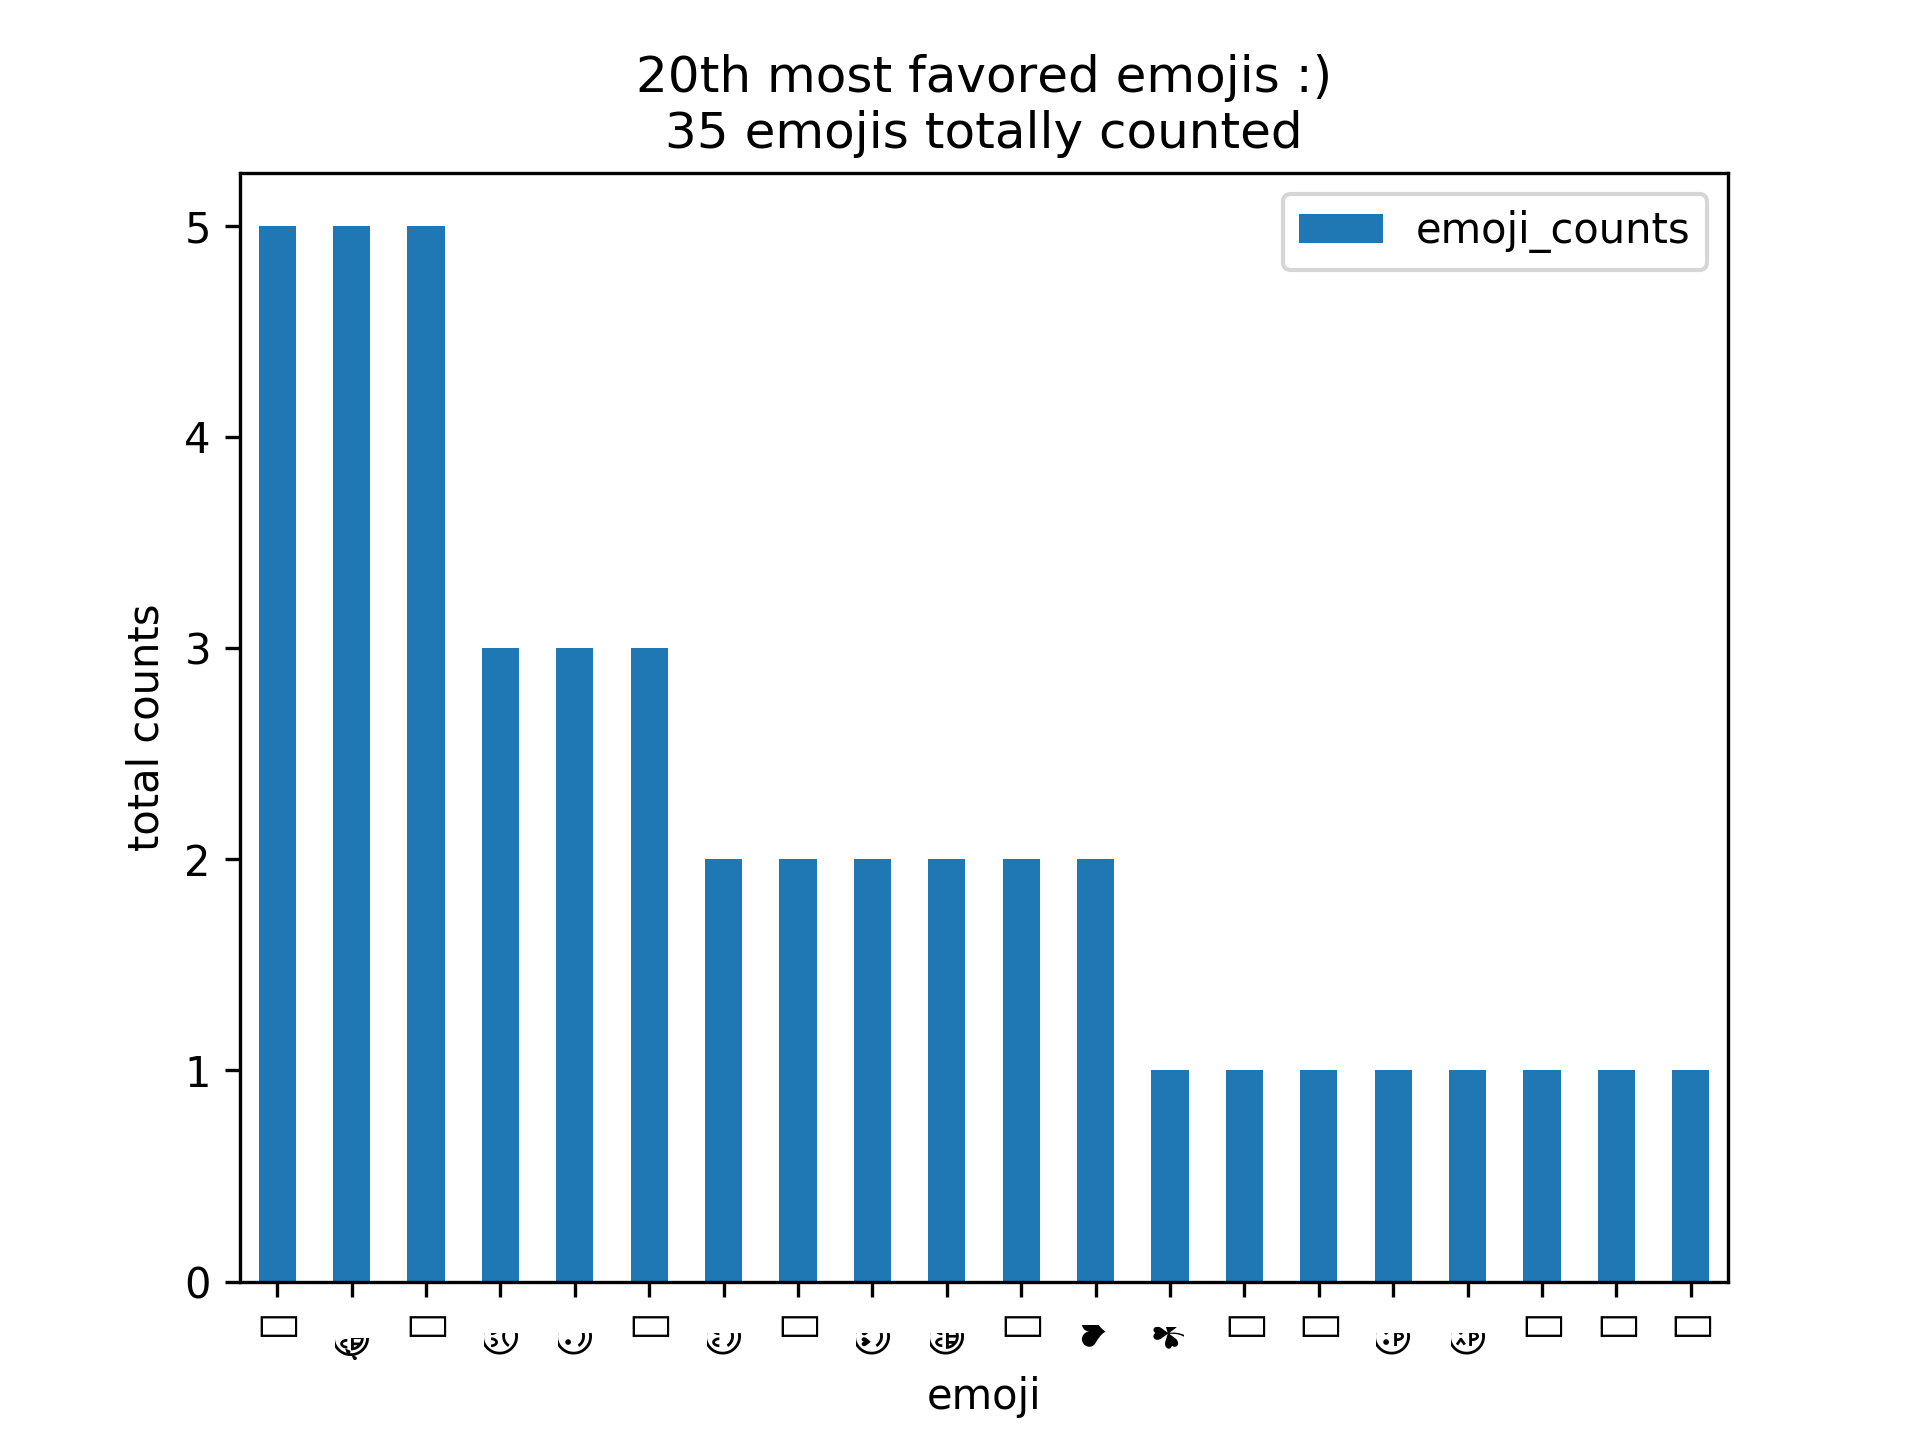
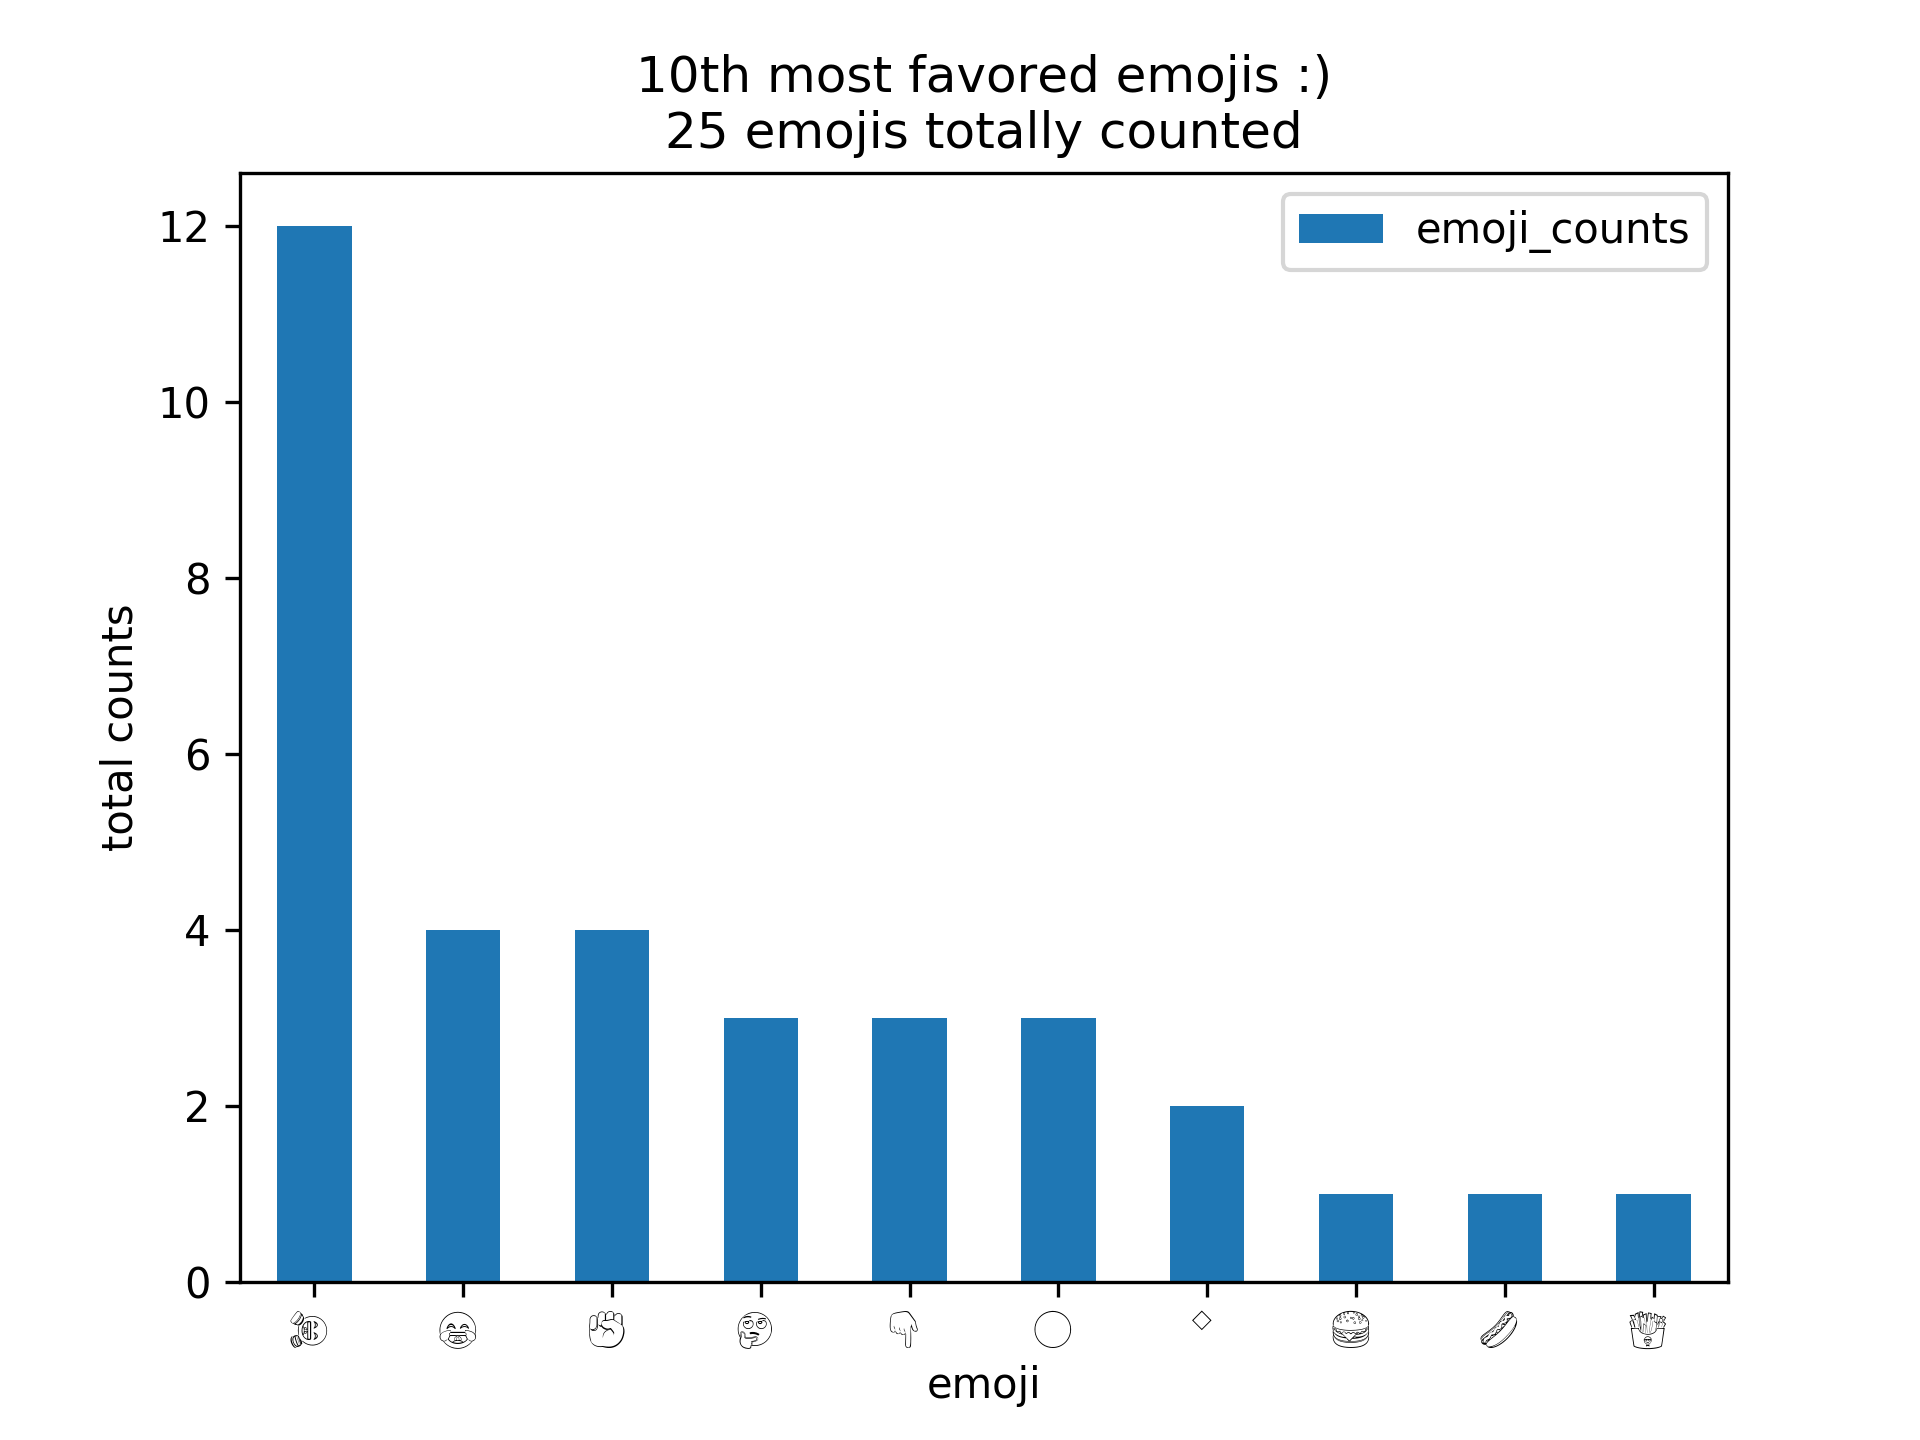
modified emoji plotting

Changed region(s): [[0.0312, 0.1562, 0.9062, 1.0], [0.3125, 0.0312, 0.3438, 0.0625]]

diff --git a/tutorial/consumer/image-loader/index.html b/tutorial/consumer/image-loader/index.html
@@ -9,7 +9,8 @@
         }
 
         #graph {
-            width: 50%;
+            width: 65%;
+            max-height: 100%;
         }
     </style>
 </head>

diff --git a/tutorial/processor/emoji_chart_processor.py b/tutorial/processor/emoji_chart_processor.py
@@ -17,27 +17,37 @@ class EmojiChartProcessor(BaseProcessor):
     def process(self, key, value):
         self._create_bar_chart(value)
 
+    def punctuate(self, timestamp):
+        pass
+
     def _create_bar_chart(self, emoji):
         self.emojis.setdefault(emoji, 0)
         self.emojis[emoji] += 1
         # sort emojis and return the most favored
         emojis_sorted = sorted(self.emojis.items(),
                                key=lambda e: e[1],
-                               reverse=True)[:20]
-        emoji_list = [k[0].decode('utf-8') for k in emojis_sorted]
+                               reverse=True)[:10]
+        # append empty char for beautiful emoji plotting :)
+        emoji_list = ['{} '.format(k[0].decode('utf-8'))
+                      for k in emojis_sorted]
         count_list = [v[1] for v in emojis_sorted]
         data = {'emoji_counts': pd.Series(count_list, index=emoji_list)}
         df = pd.DataFrame(data)
-        _, axis = plt.subplots()
+        fig, axis = plt.subplots()
+        # set font of x-axis
+        for label in (axis.get_xticklabels()):
+            label.set_fontname('EmojiOne Color')
+            label.set_fontsize(10)
         axis.set_xlabel('emoji')
         axis.set_ylabel('total counts')
         df['emoji_counts'].plot(
             kind='bar',
             ax=axis,
-            title='20th most favored emojis :)\n'
+            title='10th most favored emojis :)\n'
             '{} emojis totally counted'.format(len(self.emojis)),
             legend=True)
         buf = BytesIO()
+        plt.xticks(rotation=0)
         plt.savefig(buf, dpi=300, format='png')
         self.context.forward('chart', buf.getvalue())
         buf.close()
